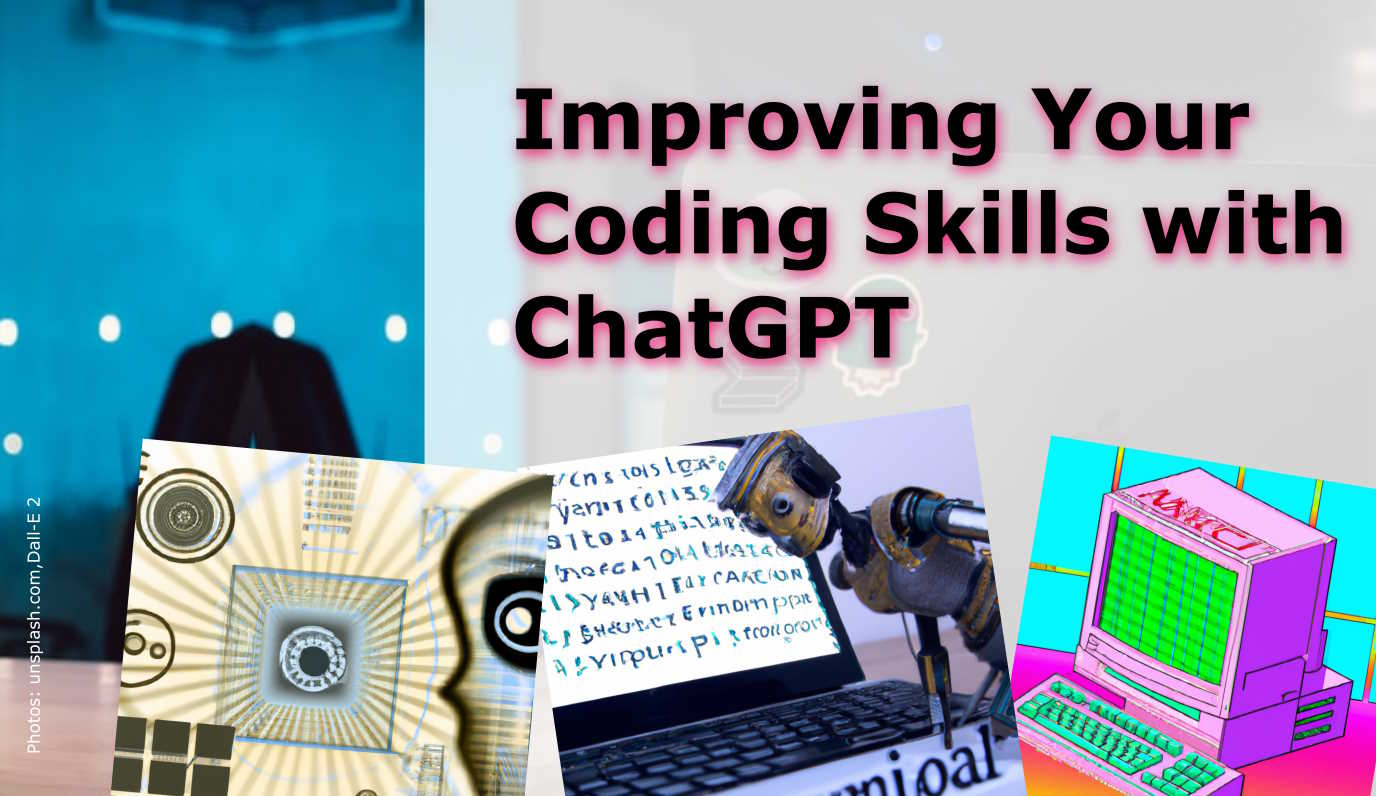
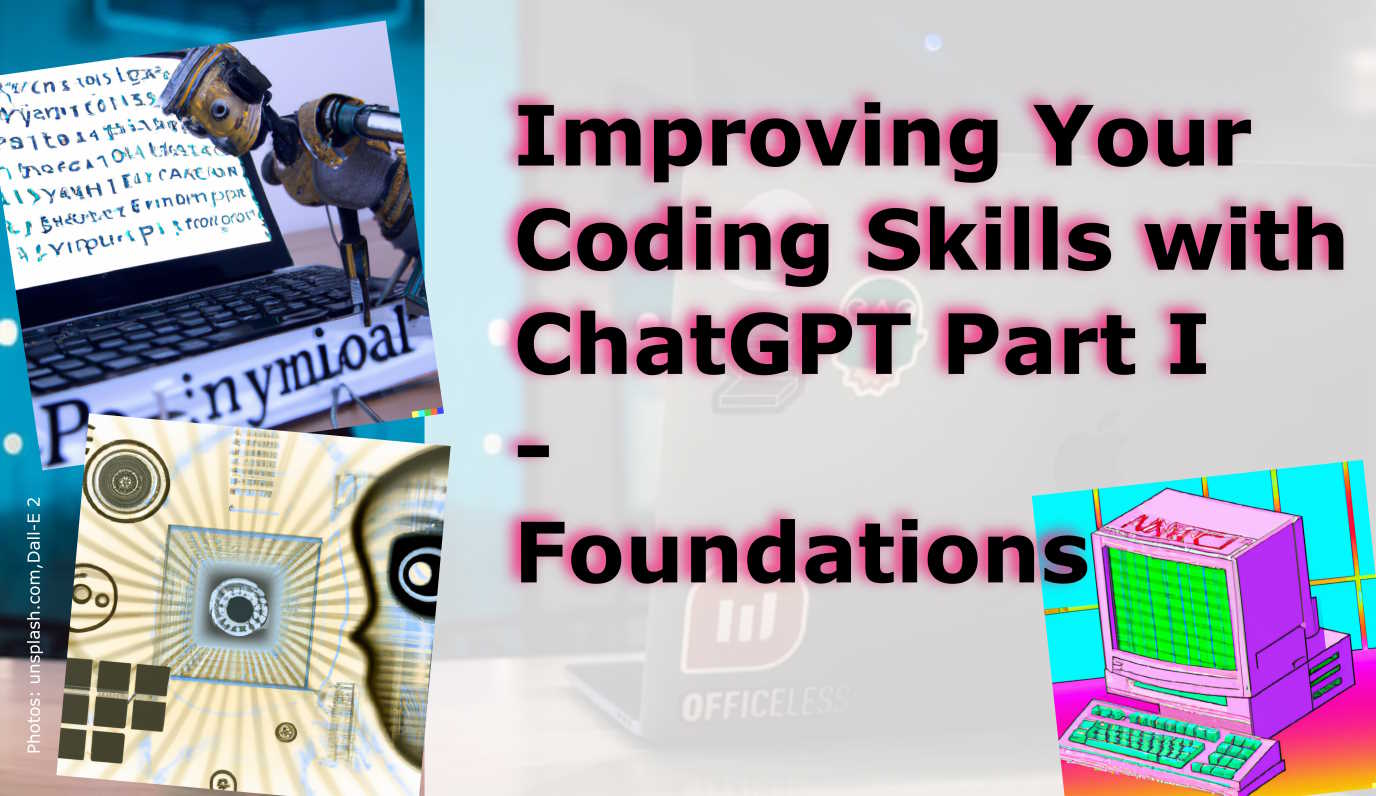
ChatGPT post part II and updated images

diff --git a/projectblog/_posts/2023-04-01-ChatGPT_Coding_2.md b/projectblog/_posts/2023-04-01-ChatGPT_Coding_2.md
@@ -1,0 +1,113 @@
+---
+title: Improving Your Coding Skills with ChatGPT Part II - Lessons Learned
+image: /assets/img/research/ChatGPTCoding2/ChatGPT_Code_2_Cover.jpg
+description: >
+  I've had more time to evaluate the popular chatbot
+---
+
+0. this unordered seed list will be replaced by toc as unordered list
+{:toc}
+
+
+In <a href="https://www.christianhaller.me/blog/projectblog/2023-02-18-ChatGPT_Coding/" target="_blank">Part I</a> of this blog series, we discussed how ChatGPT can help improve your coding skills in various ways.
+
+As a continuation, I experimented with ChatGPT as a coding assistant to develop some simple web-based animations of bouncing squares using JavaScript, a language and area in which I'm not particularly experienced.
+
+In this part, I will share some valuable insights I gained from this process and how you can effectively use ChatGPT to enhance your programming experience and how it goes beyond the introductory suggestions of Part I.
+
+
+## Write the code in small chunks
+
+Break down your code into smaller, manageable tasks.
+
+In my experiment, I started with a blank web page, then created an object for the window, a class for squares, and so on.
+
+This approach prevents the code from becoming disorganized and difficult to maintain.
+
+Writing code in smaller chunks allows you to focus on individual problems, which can lead to cleaner, more efficient solutions.
+
+
+## Guide ChatGPT on code architecture
+
+Be specific about how you want your code structured.
+
+Indicate where classes and methods should be placed to avoid creating disorganized spaghetti code.
+
+By giving ChatGPT a clear idea of the desired code architecture, it can generate more organized and maintainable code that aligns with your vision.
+
+
+## Be aware of ChatGPT's limitations
+
+ChatGPT can make mistakes, so be cautious about overestimating its capabilities.
+
+In my case, I struggled with getting a proper bounce effect for squares, only to realize ChatGPT was using math more suitable for round objects.
+
+When I explicitly instructed it to use an algorithm designed for squares, the result was much better.
+
+Keep in mind that ChatGPT may not always produce the perfect solution, and it may require additional guidance or tweaking to achieve the desired outcome.
+
+
+## Be mindful of repetitive prompts
+
+If you find yourself repeatedly asking ChatGPT to fix something, it may indicate that you're not providing clear guidance or there's a fundamental flaw in your code architecture.
+
+Consider reevaluating your approach and adjusting your instructions to ChatGPT accordingly.
+
+Reflect on the root cause of the issue and try to address it at its core, rather than attempting to fix the symptoms through multiple prompts.
+
+
+<br>
+<p align="center"><img src="/assets/img/research/ChatGPTCoding2/solen-feyissa-kPeRytACtII-unsplash.jpg" alt="Christian Haller " style="width:640px"></p>
+Photo by <a href="https://unsplash.com/it/@solenfeyissa" target="_blank">Solen Feyissa</a> on <a href="https://unsplash.com/photos/kPeRytACtII" target="_blank">Unsplash</a>
+{:.figcaption}
+
+
+## Enjoy a less frustrating coding experience
+
+Working with ChatGPT can make coding less frustrating, especially when tackling complex tasks like creating realistic animations.
+
+It can save you time and effort, even if you don't fully understand the code.
+
+By using ChatGPT as a coding assistant, you can leverage its knowledge and expertise to handle challenging problems that might otherwise prove too difficult or time-consuming to solve on your own.
+
+
+## Use ChatGPT for big-picture questions
+
+ChatGPT can also provide valuable insights into overall concepts, strategies, and best practices.
+
+Asking these types of questions can help you understand better ways to structure your code and tackle complex problems.
+
+Engaging with ChatGPT on a conceptual level can help you broaden your understanding of various programming paradigms, algorithms, and techniques, ultimately leading to more effective and efficient code.
+
+
+## Understand the code ChatGPT generates
+
+Although it's tempting to rely solely on ChatGPT-generated code, it's crucial to study and understand it to debug subtle issues that may arise.
+
+This practice ensures you maintain control over your code and its functionality.
+
+Take the time to review and comprehend the generated code, and use it as a learning opportunity to expand your programming knowledge and skills.
+
+
+## ChatGPT is better suited for experienced coders
+
+While ChatGPT is helpful for writing simple functions and scripts, its ability to structure large amounts of maintainable code is limited.
+
+It's most useful for those who already have coding experience, as it can't magically turn amateurs into experts.
+
+To guide ChatGPT on architectural decisions, you need a certain experience what is most flexible, testable, and expandable.
+
+
+  
+<br>
+<p align="center"><img src="/assets/img/research/ChatGPTCoding2/solen-feyissa-Kp1tkDWFvMI-unsplash.jpg" alt="Christian Haller " style="width:640px"></p>
+Photo by <a href="https://unsplash.com/it/@solenfeyissa" target="_blank">Solen Feyissa</a> on <a href="https://unsplash.com/photos/Kp1tkDWFvMI" target="_blank">Unsplash</a>
+{:.figcaption}
+
+# Conclusion
+
+In conclusion, ChatGPT can be a valuable coding assistant when used effectively.
+
+By keeping these insights in mind and understanding its limitations, you can enhance your programming experience and improve your coding skills.
+
+Remember to refer to Part I of this blog series for more information on how ChatGPT can help you become a better programmer.

diff --git a/projectblog/_posts/2023-02-28-Mocking_Testing.md b/projectblog/_posts/2023-02-28-Mocking_Testing.md
@@ -25,7 +25,7 @@ Through testing, developers can ensure that their code works as expected in diff
 
 <br>
 <p align="center"><img src="/assets/img/research/Mocking_Testing/boliviainteligente-M0GYFmhkgBk-unsplash.jpg" alt="Christian Haller " style="width:640px"></p>
-Photo by <a href="https://unsplash.com/@boliviainteligente">BoliviaInteligente</a> on <a href="https://unsplash.com/photos/M0GYFmhkgBk">Unsplash</a>
+Photo by <a href="https://unsplash.com/@boliviainteligente" target="_blank">BoliviaInteligente</a> on <a href="https://unsplash.com/photos/M0GYFmhkgBk" target="_blank">Unsplash</a>
 {:.figcaption}
 
 # Understanding Python Testing
@@ -58,7 +58,7 @@ In the next section, I will discuss Python mocking in more detail, including its
 
 <br>
 <p align="center"><img src="/assets/img/research/Mocking_Testing/moritz-kindler-G66K_ERZRhM-unsplash.jpg" alt="Christian Haller " style="width:640px"></p>
-Photo by <a href="https://unsplash.com/@moritz_photography">Moritz Kindler</a> on <a href="https://unsplash.com/photos/G66K_ERZRhM">Unsplash</a>
+Photo by <a href="https://unsplash.com/@moritz_photography" target="_blank">Moritz Kindler</a> on <a href="https://unsplash.com/photos/G66K_ERZRhM" target="_blank">Unsplash</a>
 {:.figcaption}
 
 
@@ -89,7 +89,7 @@ In the next section, I will discuss the different types of Python mocking and ho
 
 <br>
 <p align="center"><img src="/assets/img/research/Mocking_Testing/boston-public-library-YoK5pBcSY8s-unsplash.jpg" alt="Christian Haller " style="width:640px"></p>
-Photo by <a href="https://unsplash.com/it/@bostonpubliclibrary">Boston Public Library</a> on <a href="https://unsplash.com/photos/YoK5pBcSY8s">Unsplash</a>
+Photo by <a href="https://unsplash.com/it/@bostonpubliclibrary" target="_blank">Boston Public Library</a> on <a href="https://unsplash.com/photos/YoK5pBcSY8s" target="_blank">Unsplash</a>
 {:.figcaption}
 
 
@@ -125,7 +125,7 @@ In the next section, I will discuss how to use Python mocking effectively in tes
 
 <br>
 <p align="center"><img src="/assets/img/research/Mocking_Testing/david-clode-RAfIk-ZKbPk-unsplash.jpg" alt="Christian Haller " style="width:640px"></p>
-Photo by <a href="https://unsplash.com/@davidclode">David Clode</a> on <a href="https://unsplash.com/photos/RAfIk-ZKbPk">Unsplash</a>
+Photo by <a href="https://unsplash.com/@davidclode" target="_blank">David Clode</a> on <a href="https://unsplash.com/photos/RAfIk-ZKbPk">Unsplash</a>
 {:.figcaption}
 
 
@@ -159,7 +159,7 @@ Developers should use mocking in conjunction with other testing techniques, such
 
 <br>
 <p align="center"><img src="/assets/img/research/Mocking_Testing/george-pagan-iii-WwCTFNpZx8g-unsplash.jpg" alt="Christian Haller " style="width:640px"></p>
-Photo by <a href="https://unsplash.com/@gpthree">George Pagan III</a> on <a href="https://unsplash.com/photos/WwCTFNpZx8g">Unsplash</a> 
+Photo by <a href="https://unsplash.com/@gpthree" target="_blank">George Pagan III</a> on <a href="https://unsplash.com/photos/WwCTFNpZx8g" target="_blank">Unsplash</a> 
 {:.figcaption}
 
 
@@ -196,7 +196,7 @@ In the final section of this post, I will summarize the key takeaways from this 
 
 <br>
 <p align="center"><img src="/assets/img/research/Mocking_Testing/mahdi-bafande-nPLjZdw4B50-unsplash.jpg" alt="Christian Haller " style="width:640px"></p>
-Photo by <a href="https://unsplash.com/@mahdibafande">Mahdi Bafande</a> on <a href="https://unsplash.com/photos/nPLjZdw4B50">Unsplash</a>
+Photo by <a href="https://unsplash.com/@mahdibafande" target="_blank">Mahdi Bafande</a> on <a href="https://unsplash.com/photos/nPLjZdw4B50" target="_blank">Unsplash</a>
 {:.figcaption}
 
 

diff --git a/projectblog/_posts/2023-02-18-ChatGPT_Coding.md b/projectblog/_posts/2023-02-18-ChatGPT_Coding.md
@@ -1,8 +1,8 @@
 ---
-title: Improving Your Coding Skills with ChatGPT
+title: Improving Your Coding Skills with ChatGPT Part I - Foundations
 image: /assets/img/research/ChatGPTCoding/ChatGPT_Code_Cover.jpg
 description: >
-  Some examples to effectively use ChatGPT
+  Some examples to effectively use the popular chatbot
 ---
 
 0. this unordered seed list will be replaced by toc as unordered list
